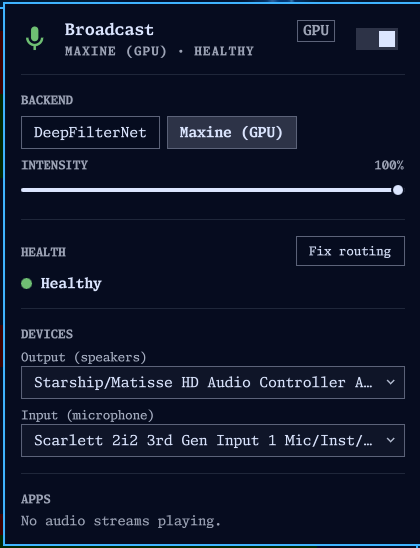
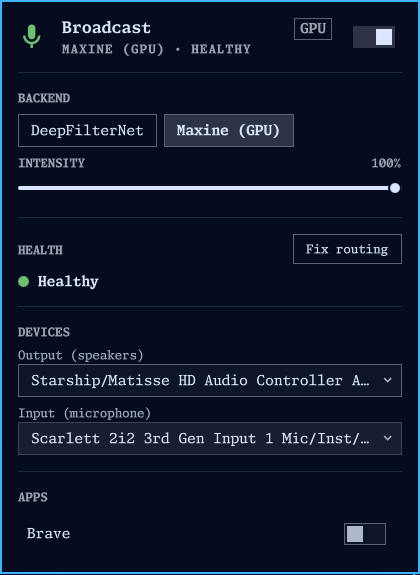
docs: link the AUR packages, use a cleaner Omarchy panel screenshot
README's Arch section now points at the 4 published AUR packages
instead of saying "not on the AUR yet". Also swaps in a tightly
cropped panel screenshot (with a real per-app entry showing) instead
of the messier full-desktop crop.

diff --git a/README.md b/README.md
@@ -37,11 +37,19 @@ The [Omarchy plugin](#omarchy-plugin)'s panel — backend selector, GPU intensit
 
 ## Installation
 
-### Arch Linux / CachyOS / Manjaro
+### Arch Linux / CachyOS / Manjaro (AUR)
 
-Not on the AUR yet (`broadcast-bin` there is an unrelated project — don't
-install it expecting this). Use the generic binary or from-source install
-below for now.
+```sh
+paru -S broadcast-ctl-bin broadcast-gui-bin   # pre-built, no compiling
+# or
+paru -S broadcast-ctl-git broadcast-gui-git   # always builds latest main
+```
+
+- [`broadcast-ctl-bin`](https://aur.archlinux.org/packages/broadcast-ctl-bin) / [`broadcast-gui-bin`](https://aur.archlinux.org/packages/broadcast-gui-bin)
+- [`broadcast-ctl-git`](https://aur.archlinux.org/packages/broadcast-ctl-git) / [`broadcast-gui-git`](https://aur.archlinux.org/packages/broadcast-gui-git)
+
+(`broadcast-bin`, without the `-ctl`/`-gui`, is a different, unrelated
+project on the AUR — don't install that one expecting this.)
 
 ### Ubuntu / Debian / Mint / Pop!_OS (.deb)
 
